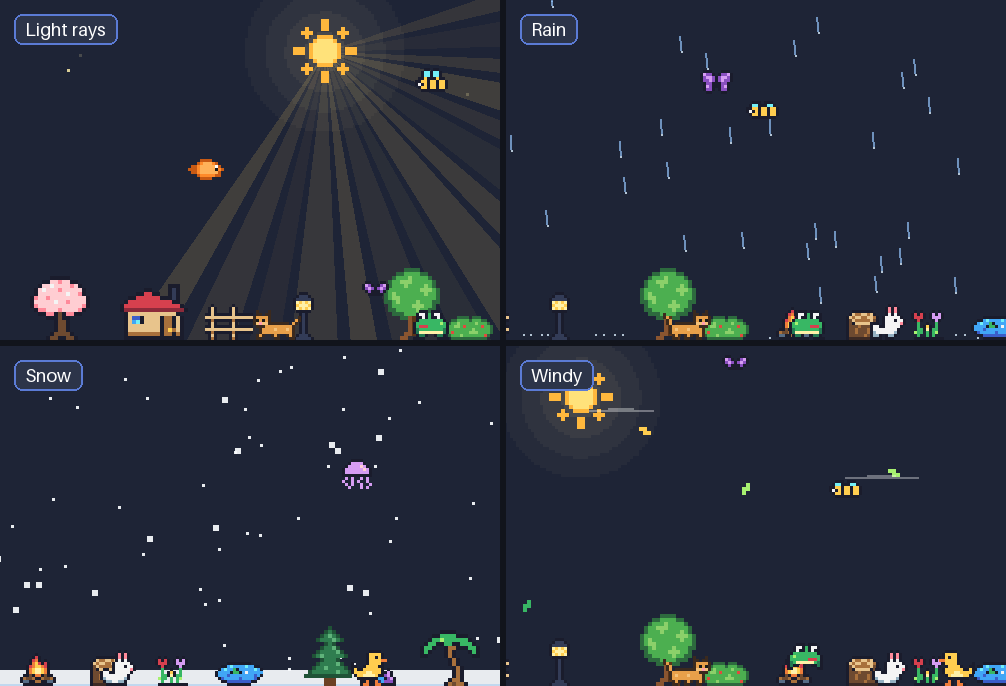
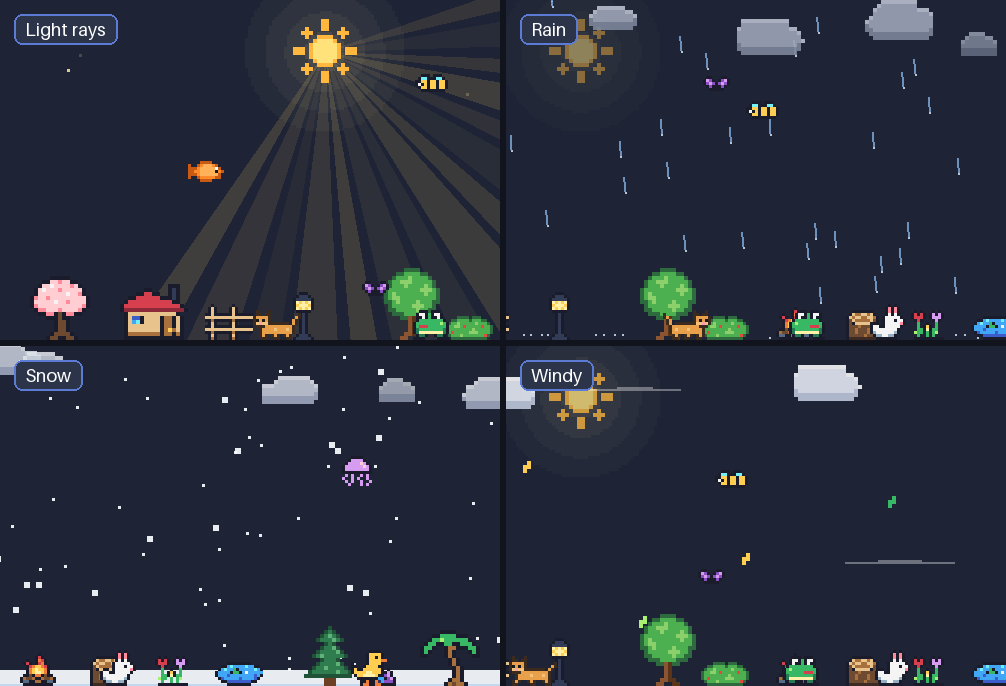
Clouds: the sun and moon no longer vanish in rain or snow (v0.4.2)
Pixel clouds gather along the top of the screen: a grey overcast band for
rain (the drops fall from it), soft pale clouds for snow, a few white ones
racing past on windy days. They drift with the wind, gather and clear over
a few seconds, turn blue-grey at night and scale with the screen height.
The sun, moon and stars now dim behind the clouds instead of disappearing.

diff --git a/weather_window.py b/weather_window.py
@@ -105,6 +105,7 @@ class WeatherWindow(QWidget):
         self.on_step = None            # called each tick (the app passes the wind to the pets)
         self._was_busy = False
         self._glow_cache = {}
+        self._cloud_cache = {}
         self._moon = None
         self._sun = None
         self._sky_ticks = 0
@@ -152,12 +153,11 @@ class WeatherWindow(QWidget):
         p.fillRect(event.rect(), Qt.transparent)
         p.setCompositionMode(QPainter.CompositionMode_SourceOver)
         w = self.weather
-        clear_sky = w.kind not in ("rain", "snow")     # clouds hide the sky
-        if w.night > 0.02 and clear_sky:
+        if w.night > 0.02:
             self._draw_stars(p, w)
         if w.sun > 0.01:
             self._rays(p, w)
-        if w.sky and clear_sky:
+        if w.sky:
             self._body(p, w)
         if w.night > 0.02:
             self._glows(p, w)
@@ -191,6 +191,8 @@ class WeatherWindow(QWidget):
                 c = QColor(*_mix(MOTE_DAY, RAY_MOON, w.night))
                 c.setAlphaF(0.85 * a * w.sun)
                 p.fillRect(int(x), int(y), PX, PX, c)
+        if w.cover > 0.01:
+            self._clouds(p, w)          # in front of the sun, moon and rain
         self._snow_pile(p, w)
         p.end()
 
@@ -226,7 +228,7 @@ class WeatherWindow(QWidget):
         """A few faint twinkling stars near the top of the screen."""
         width, height = self.width(), self.height()
         for fx, fy, phase, big in self._stars:
-            a = w.night * (0.35 + 0.3 * math.sin(w.t * (0.8 + phase) + phase * 30))
+            a = w.night * (1.0 - w.cover) * (0.35 + 0.3 * math.sin(w.t * (0.8 + phase) + phase * 30))
             if a <= 0.02:
                 continue
             c = QColor(STAR)
@@ -256,7 +258,7 @@ class WeatherWindow(QWidget):
     def _body(self, p, w):
         """The sun by day, the moon by night, following the clock."""
         body = w.sky[0]
-        strength = (1.0 - w.night) if body == "sun" else w.night
+        strength = ((1.0 - w.night) if body == "sun" else w.night) * w.sky_strength()
         if strength <= 0.02:
             return
         pm = self._body_pixmap(body)
@@ -267,6 +269,60 @@ class WeatherWindow(QWidget):
         p.drawPixmap(int(cx - radius), int(cy - radius), glow)
         p.setOpacity(strength)
         p.drawPixmap(int(cx - pm.width() / 2), int(cy - pm.height() / 2), pm)
+        p.setOpacity(1.0)
+
+    def _cloud_pixmap(self, seed, size, gloom, night):
+        """A pixel cloud: a few round puffs on a flat bottom, a bright top edge
+        and a shaded underside. White by day, grey for rain, blue-grey at night."""
+        key = (round(seed, 3), size, round(gloom * 4), round(night * 4))
+        pm = self._cloud_cache.get(key)
+        if pm is not None:
+            return pm
+        rng = random.Random(seed)
+        w, h = size, max(6, int(size * 0.48))
+        puffs = []
+        for fx, fr in ((0.24, 0.20), (0.48, 0.30), (0.72, 0.22), (0.36, 0.17), (0.6, 0.18)):
+            r = fr * w * rng.uniform(0.85, 1.15)
+            puffs.append((fx * w + rng.uniform(-1.5, 1.5), h - r * 0.85, r))
+
+        def inside(x, y):
+            if y >= h or x < 0 or x >= w:
+                return False
+            return any(math.hypot(x + 0.5 - cx, y + 0.5 - cy) < r for cx, cy, r in puffs) and y >= 0
+
+        tone = lambda day, rain, dark: _mix(_mix(day, rain, gloom), dark, night * 0.85)   # noqa: E731
+        fill = QColor(*tone((236, 241, 250), (128, 138, 160), (46, 56, 90)))
+        top = QColor(*tone((255, 255, 255), (162, 172, 192), (66, 78, 116)))
+        under = QColor(*tone((196, 206, 226), (98, 108, 130), (32, 40, 66)))
+        s = BODY_SCALE
+        img = QImage(w * s, h * s, QImage.Format_ARGB32_Premultiplied)
+        img.fill(Qt.transparent)
+        for y in range(h):
+            for x in range(w):
+                if not inside(x, y):
+                    continue
+                if not inside(x, y - 1):
+                    col = top
+                elif y >= h - 2 or not inside(x, y + 2):
+                    col = under
+                else:
+                    col = fill
+                for dy in range(s):
+                    for dx in range(s):
+                        img.setPixelColor(x * s + dx, y * s + dy, col)
+        pm = QPixmap.fromImage(img)
+        if len(self._cloud_cache) > 120:
+            self._cloud_cache.clear()
+        self._cloud_cache[key] = pm
+        return pm
+
+    def _clouds(self, p, w):
+        for i, (x, y, size, seed, _) in enumerate(w.clouds):
+            a = w.cloud_alpha(i)
+            if a <= 0.01:
+                continue
+            p.setOpacity(0.88 * a)
+            p.drawPixmap(int(x), int(y), self._cloud_pixmap(seed, size, w.gloom, w.night))
         p.setOpacity(1.0)
 
     def _glows(self, p, w):

diff --git a/weather.py b/weather.py
@@ -12,6 +12,10 @@ LABELS = {"clear": "Clear", "sun": "Light rays", "rain": "Rain", "snow": "Snow",
 
 MAX_PARTICLES = 700
 FIREFLIES = 26           # at most this many on a 1920-pixel-wide screen
+# How cloudy each weather is (0 clear .. 1 overcast), and how dark the clouds are.
+CLOUD_COVER = {"clear": 0.0, "sun": 0.0, "rain": 1.0, "snow": 0.85, "wind": 0.35}
+CLOUD_GLOOM = {"clear": 0.0, "sun": 0.0, "rain": 1.0, "snow": 0.35, "wind": 0.0}
+CLOUD_BAND = (-0.02, 0.11)  # clouds float in this slice of the screen height (top)
 SNOW_CELL = 4            # snow piles up in columns this many pixels wide
 SNOW_MAX = 16            # tallest the pile gets, in pixels
 AUTO_MIN, AUTO_MAX = 4 * 60, 10 * 60     # auto mode changes every 4-10 minutes
@@ -39,6 +43,9 @@ class Weather:
         self.night = 0.0             # 0 day .. 1 night (daycycle.py): fireflies, glows
         self.glows = []              # [(x, y, radius, colour, flickers)] lights in the park
         self.sky = None              # ("sun" or "moon", 0..1 across the sky), or None to hide
+        self.cover = 0.0             # 0..1 how cloudy, eases toward the weather's amount
+        self.gloom = 0.0             # 0..1 how dark (rainy) the clouds are
+        self.clouds = []             # [x, y, size in cloud pixels, shape seed, speed factor]
         self.auto = False
         self.auto_timer = 0.0
         self._spawn_debt = {}
@@ -48,6 +55,30 @@ class Weather:
         self.width, self.height = max(1, width), max(1, height)
         cols = self.width // SNOW_CELL + 1
         self.snow = (self.snow + [0.0] * cols)[:cols]
+        self._make_clouds()
+
+    def _make_clouds(self, rng=None):
+        """A fixed set of clouds, spread along the top. Which of them show
+        depends on how cloudy it is (the first ones show first)."""
+        rng = rng or random.Random(11)
+        n = max(6, self.width // 115)
+        top, bottom = CLOUD_BAND
+        self.clouds = []
+        for i in range(n):
+            # sized for a 1000-pixel-tall screen, smaller or bigger to match yours
+            size = max(10, int(rng.randint(30, 54) * min(1.3, max(0.4, self.height / 1000))))
+            x = (i + rng.uniform(-0.3, 0.3)) * self.width / n
+            y = rng.uniform(top, bottom) * self.height
+            self.clouds.append([x, y, size, rng.random(), rng.uniform(0.6, 1.2)])
+        rng.shuffle(self.clouds)            # thin cover: a few, spread out
+
+    def cloud_alpha(self, i):
+        """0..1 how much of cloud number i is showing right now."""
+        return max(0.0, min(1.0, self.cover * len(self.clouds) - i))
+
+    def sky_strength(self):
+        """How much the sun, moon and stars show through the clouds."""
+        return 1.0 - 0.65 * self.cover
 
     def set_kind(self, kind):
         if kind in KINDS:
@@ -59,7 +90,7 @@ class Weather:
 
     def busy(self):
         """True while anything is on screen (so the window must redraw)."""
-        return (self.kind != "clear" or self.particles or self.sun > 0.01
+        return (self.kind != "clear" or self.particles or self.sun > 0.01 or self.cover > 0.01
                 or any(h > 0.05 for h in self.snow)
                 or self.night > 0.02)
 
@@ -81,6 +112,18 @@ class Weather:
         self.wind += (target - self.wind) * min(1.0, dt * 0.8)
         sun_target = 1.0 if self.kind == "sun" else 0.0
         self.sun += (sun_target - self.sun) * min(1.0, dt * 0.7)
+        # clouds gather and clear over a few seconds, and drift with the wind
+        self.cover += (CLOUD_COVER[self.kind] - self.cover) * min(1.0, dt * 0.4)
+        self.gloom += (CLOUD_GLOOM[self.kind] - self.gloom) * min(1.0, dt * 0.4)
+        if self.cover > 0.001:
+            gust = self.gust()
+            for c in self.clouds:
+                c[0] += (10 + gust * 0.35) * c[4] * dt
+                span = c[2] * 4 + 40                  # cloud width in screen pixels, roughly
+                if c[0] > self.width + span:
+                    c[0] = -span
+                elif c[0] < -span:
+                    c[0] = self.width + span
 
         self._spawn(dt, rng)
         self._move(dt, rng)

diff --git a/tests/test_weather.py b/tests/test_weather.py
@@ -53,6 +53,7 @@ class WeatherTests(unittest.TestCase):
         w.set_kind("clear")
         run(w, 5)
         self.assertEqual(w.particles, [])
+        run(w, 15)                            # the rain clouds drift apart too
         self.assertFalse(w.busy())
 
     def test_wind_builds_up_gradually(self):
@@ -98,6 +99,44 @@ class WeatherTests(unittest.TestCase):
         d = store.clean({"weather": "snow", "weather_auto": True})
         self.assertEqual((d["weather"], d["weather_auto"]), ("snow", True))
         self.assertEqual(store.clean({"weather": "tornado"})["weather"], "clear")
+
+
+
+class CloudTests(unittest.TestCase):
+    def test_cover_follows_the_weather(self):
+        w = Weather(1920, 1040)
+        self.assertEqual(w.cover, 0.0)
+        w.set_kind("rain")
+        run(w, 15)
+        self.assertGreater(w.cover, 0.95)
+        self.assertGreater(w.gloom, 0.9)
+        w.set_kind("wind")
+        run(w, 15)
+        self.assertTrue(0.3 < w.cover < 0.5)
+        self.assertLess(w.gloom, 0.1)
+
+    def test_how_many_clouds_show(self):
+        w = Weather(1920, 1040)
+        w.cover = 1.0
+        self.assertTrue(all(w.cloud_alpha(i) == 1.0 for i in range(len(w.clouds))))
+        w.cover = 0.0
+        self.assertTrue(all(w.cloud_alpha(i) == 0.0 for i in range(len(w.clouds))))
+
+    def test_clouds_stay_in_the_top_strip_and_drift(self):
+        w = Weather(1920, 1040)
+        w.set_kind("wind")
+        xs = [c[0] for c in w.clouds]
+        run(w, 10)
+        self.assertNotEqual(xs, [c[0] for c in w.clouds])
+        for c in w.clouds:
+            self.assertLessEqual(c[1], 1040 * 0.2)
+            self.assertTrue(-400 < c[0] < 1920 + 400)
+
+    def test_sun_and_moon_dim_behind_clouds(self):
+        w = Weather(800, 600)
+        self.assertEqual(w.sky_strength(), 1.0)
+        w.cover = 1.0
+        self.assertTrue(0.2 < w.sky_strength() < 0.5)       # dim, but still there
 
 
 if __name__ == "__main__":

diff --git a/desktop_park.py b/desktop_park.py
@@ -23,7 +23,7 @@ from weather import KINDS as WEATHER_KINDS, LABELS as WEATHER_LABELS
 from weather_window import WeatherWindow
 from sprites import Library
 
-__version__ = "0.4.1"
+__version__ = "0.4.2"
 
 UPDATE_FIRST_MS = 5000                 # first look for a new version
 UPDATE_EVERY_MS = 6 * 3600 * 1000      # then every 6 hours

diff --git a/README.md b/README.md
@@ -37,16 +37,19 @@ Your desktop gets its own sky. Pick the weather on the board, or press
 
 - **Light rays** - soft beams shining down from the sun with drifting sparkles;
   at night they turn into silver moonbeams from the moon
-- **Rain** - pixel raindrops, slanted by the breeze, that splash when they land
-- **Snow** - flakes drift down and **pile up along the bottom of your screen**,
-  then melt away when the snow stops
-- **Windy** - leaves and gusts blow across, and your flying and swimming pets
-  get pushed around
+- **Rain** - grey clouds roll in along the top of the screen and pixel raindrops
+  fall from them, slanted by the breeze, splashing when they land. The sun or
+  moon peeks dimly through the clouds.
+- **Snow** - soft pale clouds, and flakes that drift down and **pile up along
+  the bottom of your screen**, then melt away when the snow stops
+- **Windy** - a few white clouds race past, leaves and gusts blow across, and
+  your flying and swimming pets get pushed around
 
 ![Light rays, Rain, Snow and Windy side by side](docs/weather.png)
 
 The weather never gets in your way: it lives in its own window that every
-click passes straight through
+click passes straight through. Clouds gather and clear over a few seconds when the weather changes,
+and turn dark blue-grey at night.
 
 ## Day & night
 
